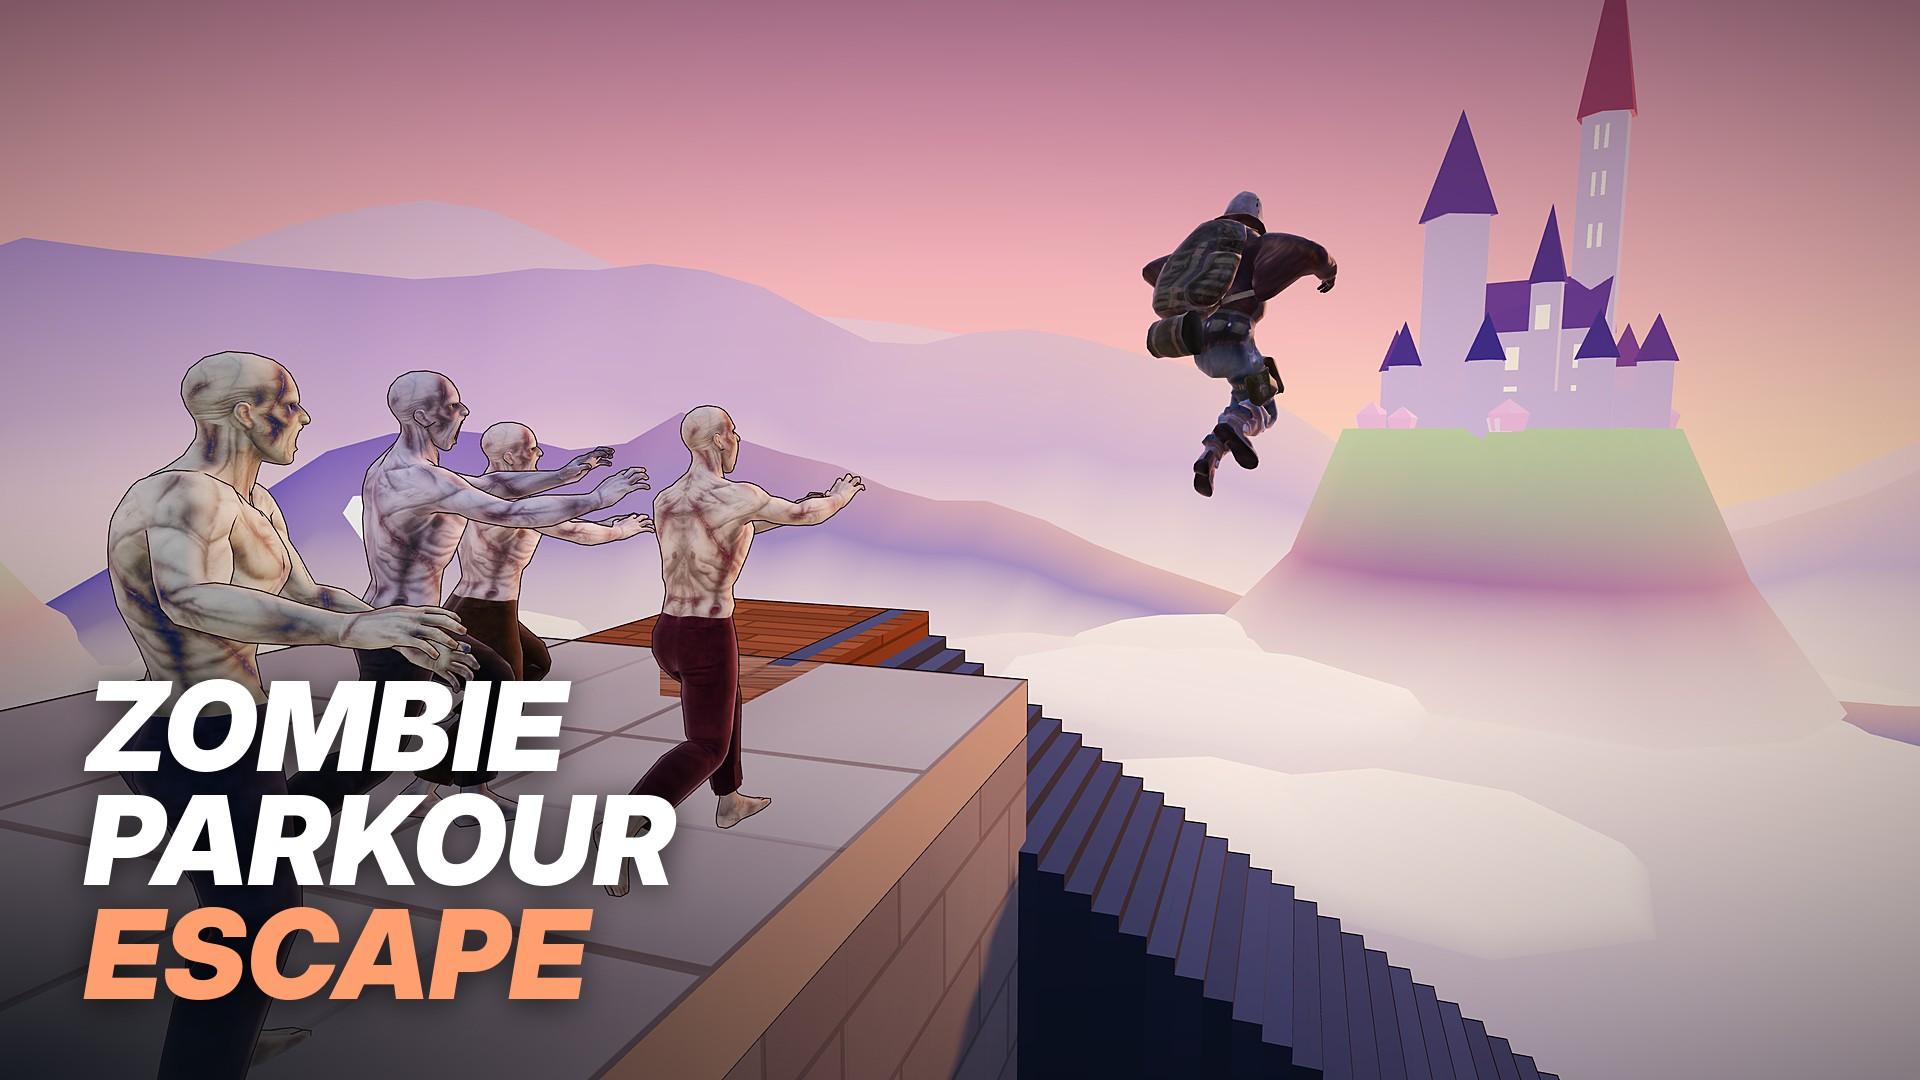
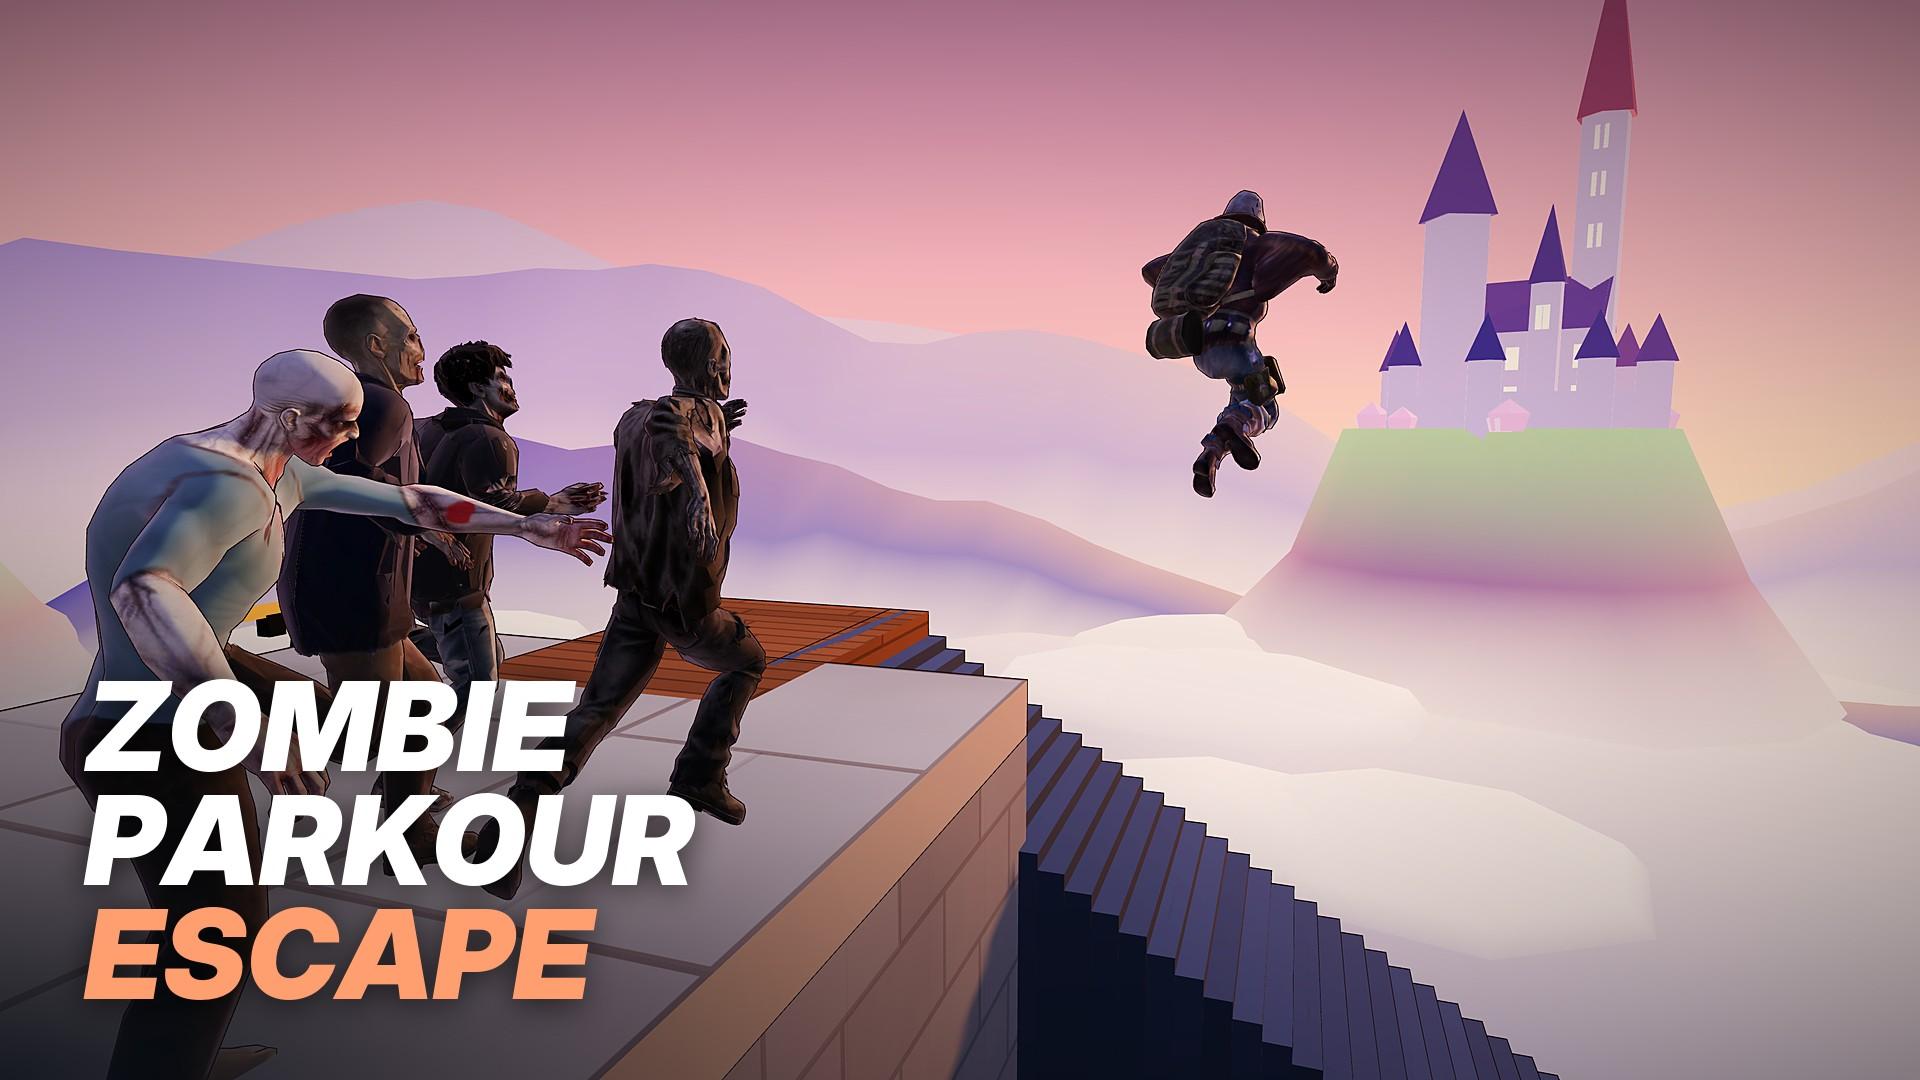
宣伝用の表紙3枚を今のゾンビで作り直す
11/27 のホームの絵と同じ撮影画像から作った。縦長の切り抜きだけ左へ寄せ、
追手の頭から足までを入れる。promo/ はゲームに含めない。

diff --git a/promo/covers/make_covers.py b/promo/covers/make_covers.py
@@ -43,6 +43,6 @@ L.save('cover-landscape-1920x1080.jpg',quality=90)
 S=grade(RAW.crop((760,0,2560,1800)).resize((800,800),Image.LANCZOS)); S=shade(S,'top'); S=title(S,40,34,70)
 S.save('cover-square-800x800.jpg',quality=90)
 # Portrait 800x1200: lead zombie and runner, title top centre
-P=grade(RAW.crop((1160,0,2360,1800)).resize((800,1200),Image.LANCZOS)); P=shade(P,'bottom'); P=title(P,400,880,98,align='center')
+P=grade(RAW.crop((1040,0,2240,1800)).resize((800,1200),Image.LANCZOS)); P=shade(P,'bottom'); P=title(P,400,880,98,align='center')
 P.save('cover-portrait-800x1200.jpg',quality=90)
 for n,im in [('L',L),('S',S),('P',P)]: print(n,im.size)

diff --git a/promo/README.md b/promo/README.md
@@ -2,8 +2,8 @@
 
 `size_check.sh` と `tools/make_release_zip.py` の対象外（直下の html/js/css/svg と `assets/` だけが出荷物）。
 
-## covers/（2026-11-23 撮り直し。11/21 版は街の見た目を直す前の色だった）
-**2026-11-27：ホームの絵だけ、今のゾンビ（服・髪を描いた Unity の体と、町の人3種）で撮り直した。表紙3枚は 11/23 のまま（服を描く前の体）。次に表紙を使う前に撮り直す。**
+## covers/（2026-11-28 作り直し。11/23 版は服を描く前のゾンビ、11/21 版は街の見た目を直す前の色だった）
+ホームの絵（11/27）と表紙3枚（11/28）は、今のゾンビ（服・髪を描いた Unity の体と、町の人3種）。どちらも同じ撮影画像から作った。11/23 版より、縦長の切り抜きだけ左へ寄せた（追手の頭から足までを入れる）。
 
 CrazyGames の必須サイズ（横 1920x1080・縦 800x1200・正方形 800x800）。文字はタイトルだけ（CrazyGames は「Play」「New」などの文字を禁止）。
 ホームの絵・初回カード（`assets/lobby/old-town-chase.webp`）と同じ場面：旧市街の東、高さ14.4mの屋上の縁から、人間が雲海の上へ跳ぶ。ゾンビ4体が縁で手を伸ばし、奥に城の岩山。
@@ -17,6 +17,6 @@ CrazyGames の必須サイズ（横 1920x1080・縦 800x1200・正方形 800x800
    - 写さない物：フックの印・ロープ台・ドカン・光の柱・細い柱・拾える物・カメラに付いた白い帯。
    - 候補の縁は `gap-scan`（高い屋上の縁の一覧）から選んだ。x=21,z=-6 と x=46,z=-10 が雲海と城を背にできる。
 2. `grade.py <撮影したpng> <出力名>` でホーム用（1920x1080 webp）。
-3. `make_covers.py <撮影したpng>` で3枚の表紙（字体は Inter Display Black Italic、OFL）。
+3. `make_covers.py <撮影したpng> <フォントのパス>` で3枚の表紙（出力は実行したフォルダ）。字体は Inter Display Black Italic（OFL）。公式の `rsms/inter` の v4.1 リリース `Inter-4.1.zip` にある `extras/otf/InterDisplay-BlackItalic.otf`（フォントはリポジトリに入れない）。追手の位置は撮るたびに変わるので、切り抜きは目で確認する。
 
 ゲームに無いもの（庇・バルコニー・ぶら下がるロープなど）は描き足さない。実際の画面と違う絵はポータルで信用を落とす。
